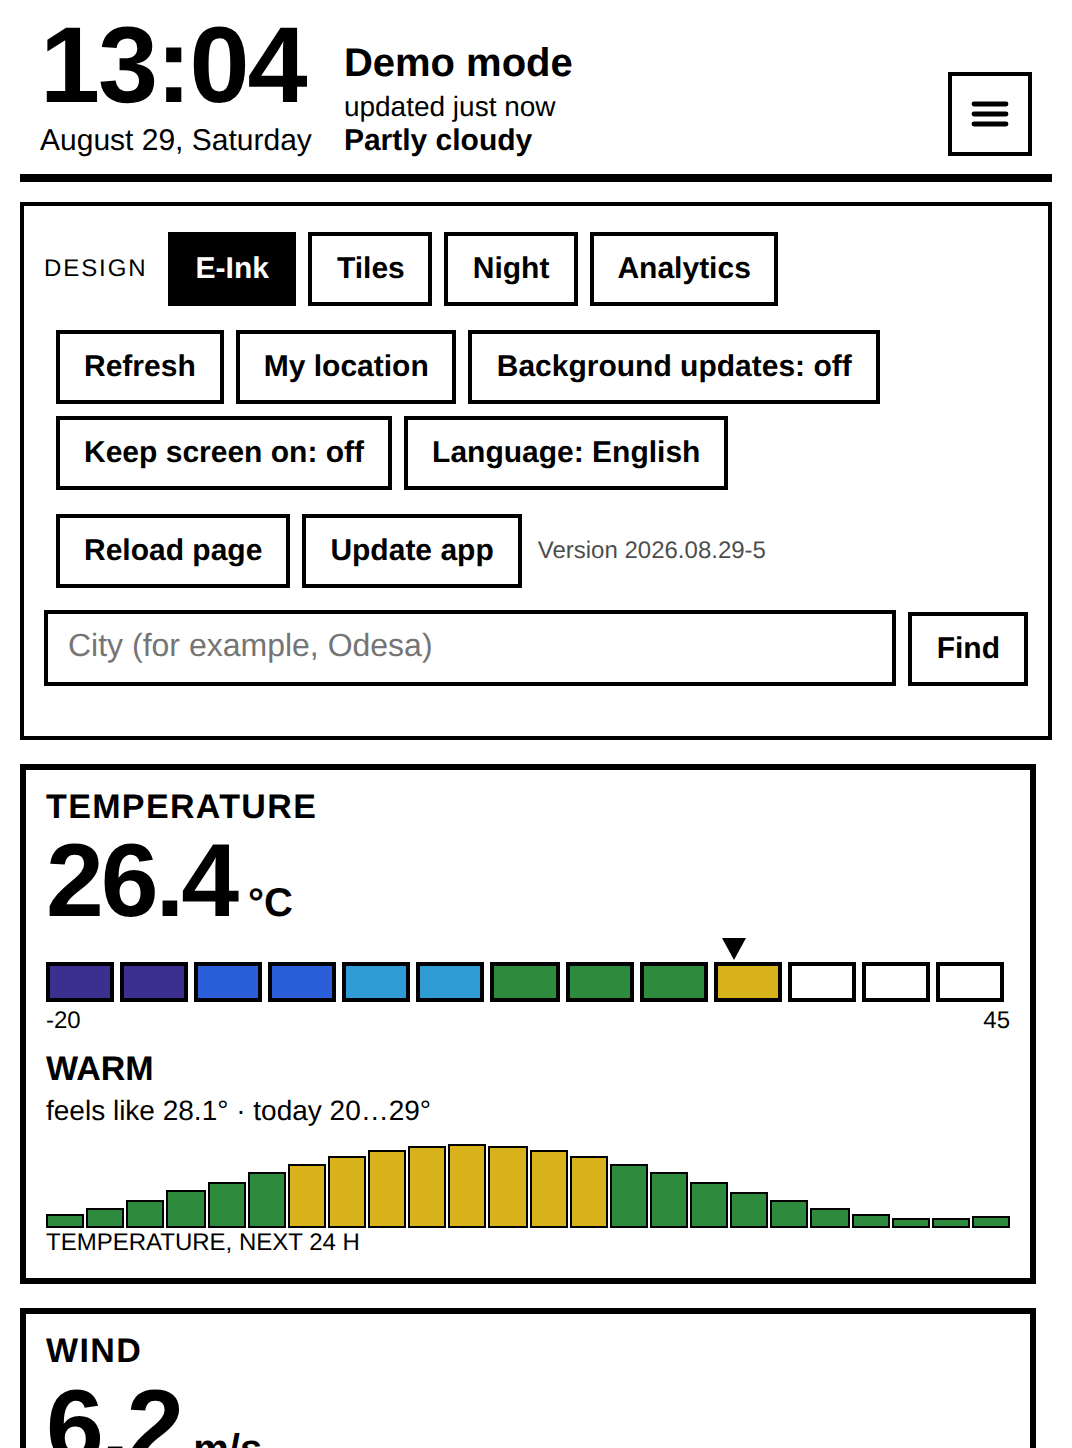
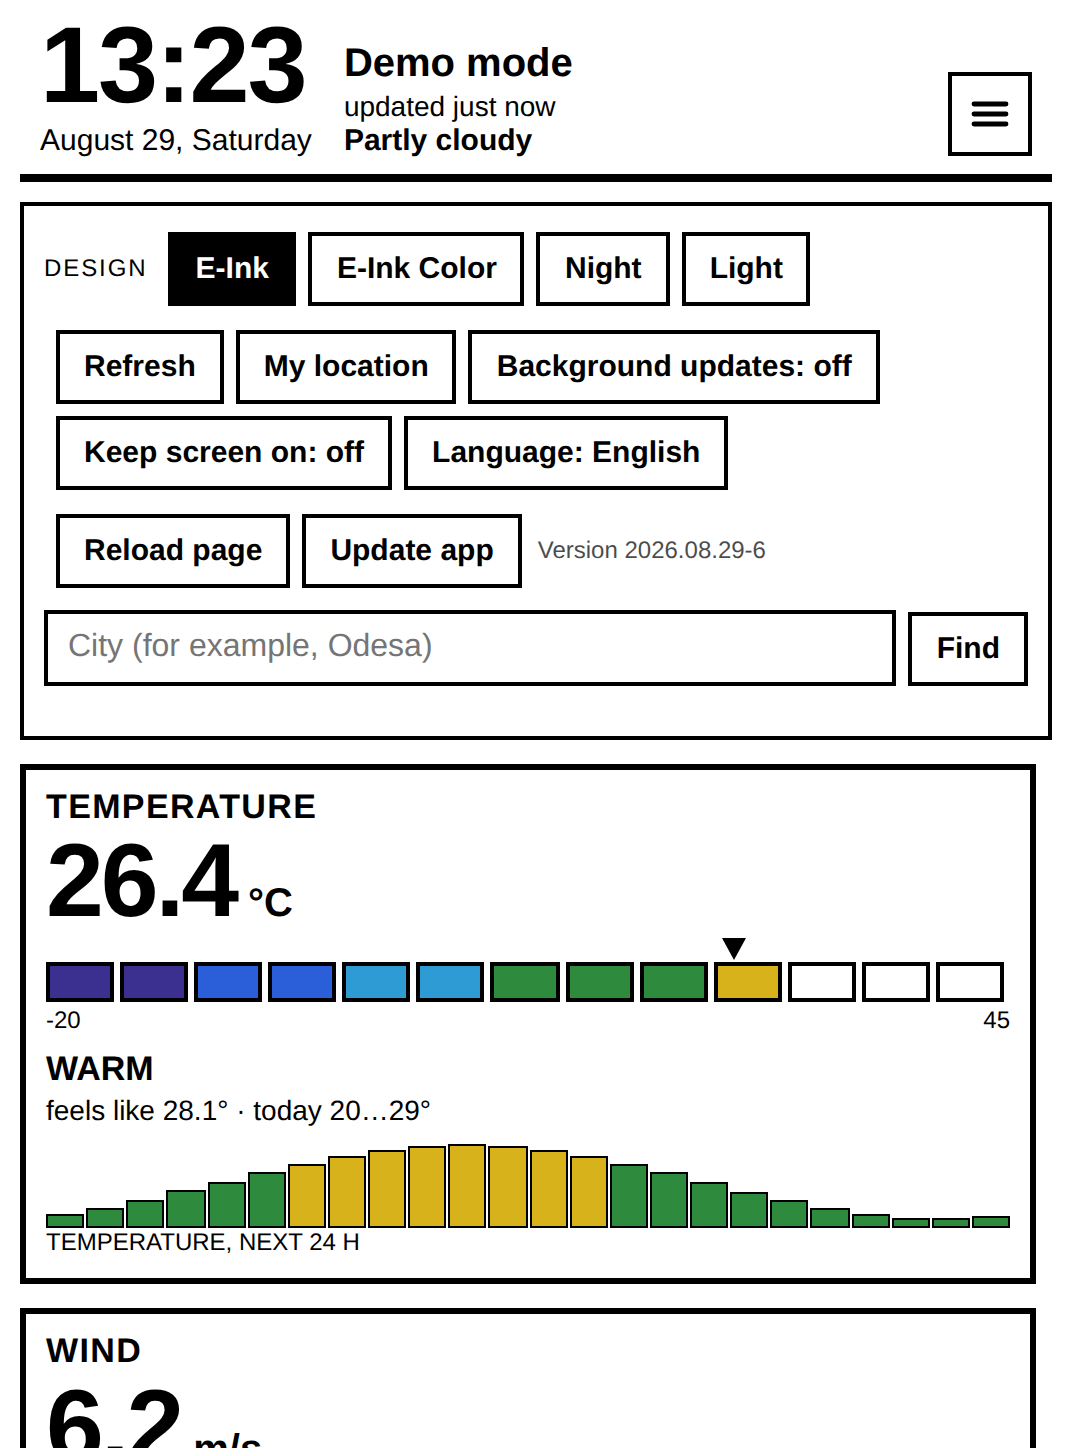
Fill the phone screen and rename two designs
The compact phone layout no longer stops where the content happens to end: the
app becomes a viewport-tall column (dvh with a vh fallback), the card grid takes
the space the header and footer leave, and its rows stretch into it. Cards that
grow centre their contents rather than clinging to the top, and the tile number
grows with the taller cells. All four designs now fill 99% of the screen from
320x568 to 430x932, still without scrolling.

Analytics is renamed Light and Tiles becomes E-Ink Color, in all four locales;
the theme ids stay as they are, so remembered settings and ?theme= links keep
working.

Claude-Session: https://claude.ai/code/session_013SbFinGuhw9MJ6FtXFwKse

Changed region(s): [[0.3078, 0.1554, 0.7696, 0.2175], [0.1539, 0.0, 0.3078, 0.0932]]

diff --git a/css/compact.css b/css/compact.css
@@ -7,7 +7,22 @@
 
 @media (max-width: 520px) {
 
-  body[data-theme] .app { padding: 6px 6px 8px 6px; }
+  /* Fill the screen: the app is a column the height of the viewport, the card
+     grid takes whatever the header and footer leave, and its rows stretch into
+     it instead of leaving dead space at the bottom. dvh follows the browser
+     chrome on phones; vh is the fallback where it is unknown. */
+  html, body { height: 100%; }
+  body[data-theme] .app {
+    padding: 6px 6px 8px 6px;
+    min-height: 100vh; min-height: 100dvh;
+    display: flex; flex-direction: column;
+  }
+  body[data-theme] .cards { flex: 1 1 auto; align-content: stretch; }
+  body[data-theme] .footbar { margin-top: 4px; }
+  /* Stretched cards would otherwise leave their content clinging to the top. */
+  body[data-theme]:not([data-theme="tiles"]) .card {
+    display: flex; flex-direction: column; justify-content: center;
+  }
 
   /* A compact header: the clock still reads across the room, the rest shrinks. */
   body[data-theme] .topbar { padding: 0 8px 4px 8px; }
@@ -52,8 +67,8 @@
   /* Tiles: shorter cells and a smaller number, so the grid clears the shortest
      phone screens too. */
   body[data-theme="tiles"] .card { min-height: 88px; }
-  body[data-theme="tiles"] .card-value { font-size: 34px; }
-  body[data-theme="tiles"] .card[data-metric="pressure"] .card-value { font-size: 28px; }
+  body[data-theme="tiles"] .card-value { font-size: 40px; }
+  body[data-theme="tiles"] .card[data-metric="pressure"] .card-value { font-size: 33px; }
 
   /* Design-specific trimmings that only make sense at this density. */
   body[data-theme="night"] .card[data-metric="temp"] { flex: 1 1 47%; }
@@ -75,8 +90,8 @@
     body[data-theme]:not([data-theme="tiles"]) .card-band { font-size: 10px; margin-top: 2px; }
     body[data-theme]:not([data-theme="tiles"]) .card-note { font-size: 9px; }
     body[data-theme="tiles"] .card { min-height: 78px; }
-    body[data-theme="tiles"] .card-value { font-size: 30px; }
-    body[data-theme="tiles"] .card[data-metric="pressure"] .card-value { font-size: 25px; }
+    body[data-theme="tiles"] .card-value { font-size: 34px; }
+    body[data-theme="tiles"] .card[data-metric="pressure"] .card-value { font-size: 28px; }
     body[data-theme="night"] .topbar { padding: 6px 10px; }
   }
 }

diff --git a/js/i18n.js b/js/i18n.js
@@ -9,8 +9,8 @@ var I18N = (function () {
 
     'theme.eink': 'E-Ink',
     'theme.night': 'Night',
-    'theme.paper': 'Analytics',
-    'theme.tiles': 'Tiles',
+    'theme.paper': 'Light',
+    'theme.tiles': 'E-Ink Color',
 
     'ui.design': 'Design: {name}',
     'ui.designs': 'Design',
@@ -228,8 +228,8 @@ var I18N = (function () {
 
     'theme.eink': 'E-Ink',
     'theme.night': 'Тёмный',
-    'theme.paper': 'Аналитика',
-    'theme.tiles': 'Плитки',
+    'theme.paper': 'Светлый',
+    'theme.tiles': 'E-Ink Color',
 
     'ui.design': 'Дизайн: {name}',
     'ui.designs': 'Дизайн',
@@ -439,8 +439,8 @@ var I18N = (function () {
 
     'theme.eink': 'E-Ink',
     'theme.night': 'Темний',
-    'theme.paper': 'Аналітика',
-    'theme.tiles': 'Плитки',
+    'theme.paper': 'Світлий',
+    'theme.tiles': 'E-Ink Color',
 
     'ui.design': 'Дизайн: {name}',
     'ui.designs': 'Дизайн',
@@ -650,8 +650,8 @@ var I18N = (function () {
 
     'theme.eink': 'E-Ink',
     'theme.night': 'Nocturno',
-    'theme.paper': 'Analítico',
-    'theme.tiles': 'Mosaico',
+    'theme.paper': 'Claro',
+    'theme.tiles': 'E-Ink Color',
 
     'ui.design': 'Diseño: {name}',
     'ui.designs': 'Diseño',

diff --git a/js/app.js b/js/app.js
@@ -11,7 +11,7 @@
   var HOUR = 60 * 60 * 1000;
   /* Shown in the Place panel: on a full-screen browser it is the only way to
      tell whether a new build actually arrived. Bump it with every release. */
-  var APP_VERSION = '2026.08.29-5';
+  var APP_VERSION = '2026.08.29-6';
 
   var settings = Store.load();
   var demoMode = /[?&]demo=1/.test(location.search);

diff --git a/README.md b/README.md
@@ -6,7 +6,7 @@ phones. Next to every number there is an intensity scale, so you see not just
 
 Four designs ship with the app and are cycled with the grid icon in the top bar.
 
-| 1 · E-Ink | 2 · Tiles | 3 · Night | 4 · Analytics |
+| 1 · E-Ink | 2 · E-Ink Color | 3 · Night | 4 · Light |
 |---|---|---|---|
 | ![](docs/design-1-eink.png) | ![](docs/design-4-tiles.png) | ![](docs/design-2-night.png) | ![](docs/design-3-paper.png) |
 
@@ -17,7 +17,7 @@ Four designs ship with the app and are cycled with the grid icon in the top bar.
    outlined blocks. No shadows, gradients or animation — half-tones smear on
    e-ink and repaints are expensive. Colour appears only inside the scales,
    where Kaleido actually shows it.
-2. **Tiles** (`tiles`) — all ten readings on one 6" screen with no scrolling:
+2. **E-Ink Color** (`tiles`) — all ten readings on one 6" screen with no scrolling:
    a two-column grid (three columns from 620 px). Inside each tile the number is
    as large as the cell allows and owns the left half over its full height, with
    the unit beneath it; the title, the band label and one clipped line of detail
@@ -31,7 +31,7 @@ Four designs ship with the app and are cycled with the grid icon in the top bar.
 3. **Night** (`night`) — for phones: two tiles per row, temperature across the
    full width, 18 px corners, a thin solid scale bar. The dark background is
    easy on an OLED panel and on the eyes at night.
-4. **Analytics** (`paper`) — light paper, a single column of dense rows: label,
+4. **Light** (`paper`) — light paper, a single column of dense rows: label,
    large number, a full-width ruler-like scale and a coloured band marker down
    the left edge of the card. Maximum data per screen.
 
@@ -116,10 +116,16 @@ hourly timer.
 Below 520 px every design switches to a compact layout so the whole set of
 readings fits on one screen with no scrolling: two columns, tighter boxes, and
 no 24-hour charts — a chart makes a card three times taller than the reading it
-carries. Short screens get one more notch of density. Each design keeps its own
-colour, borders and typography, only the density changes. Measured from 320×568
-to 430×932, all four designs fit with headroom; e-ink readers (536 px and wider)
-stay on the roomy layout with the charts.
+carries. Short screens get one more notch of density.
+
+The grid then stretches to fill the screen rather than leaving dead space under
+the last row: the app is a column the height of the viewport (`dvh`, so it
+follows the browser chrome, with `vh` as the fallback), the card grid takes
+whatever the header and footer leave, and its rows share that height. Cards that
+grow this way centre their contents instead of clinging to the top. Measured
+from 320×568 to 430×932, all four designs fill 99% of the screen with no
+scrolling; e-ink readers (536 px and wider) stay on the roomy layout with the
+charts.
 
 ## Language
 
@@ -167,8 +173,8 @@ index.html              markup (one shell for all three designs)
 css/base.css            structure and geometry
 css/theme-eink.css      design 1
 css/theme-night.css     design 3
-css/theme-paper.css     design 4
-css/theme-tiles.css     design 2
+css/theme-paper.css     design 4 (Light)
+css/theme-tiles.css     design 2 (E-Ink Color)
 css/compact.css         phone layout: one screen, no scrolling (loaded last)
 js/i18n.js              all user-facing strings: English source + ru/uk/es locales
 js/util.js              helpers, XHR, formatting, weather codes
